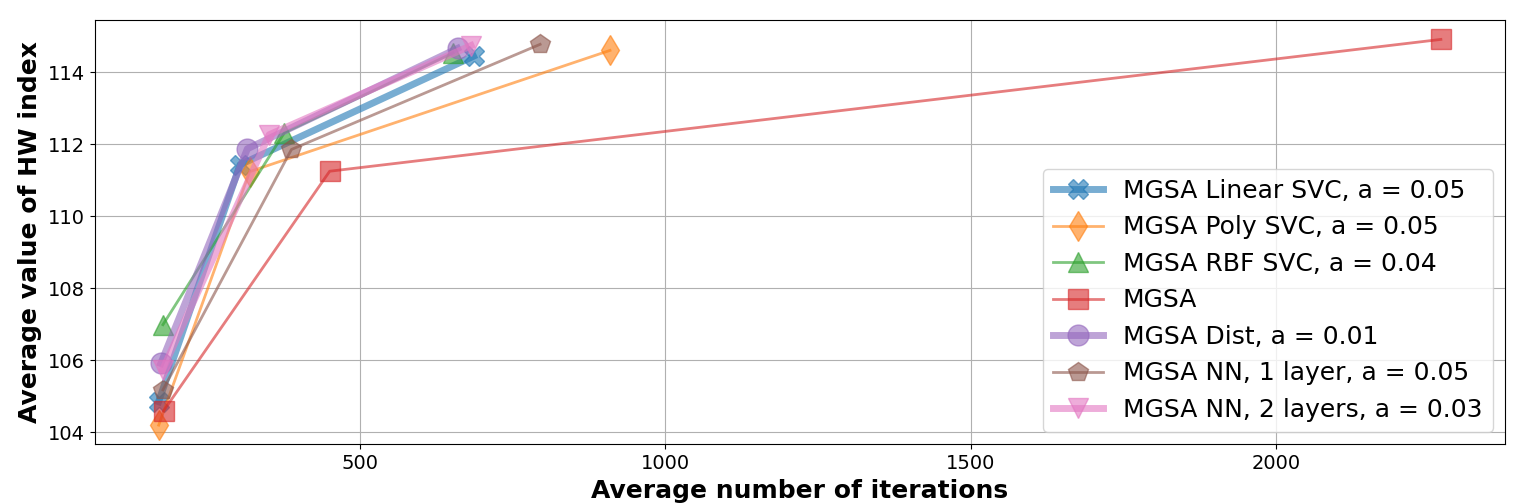
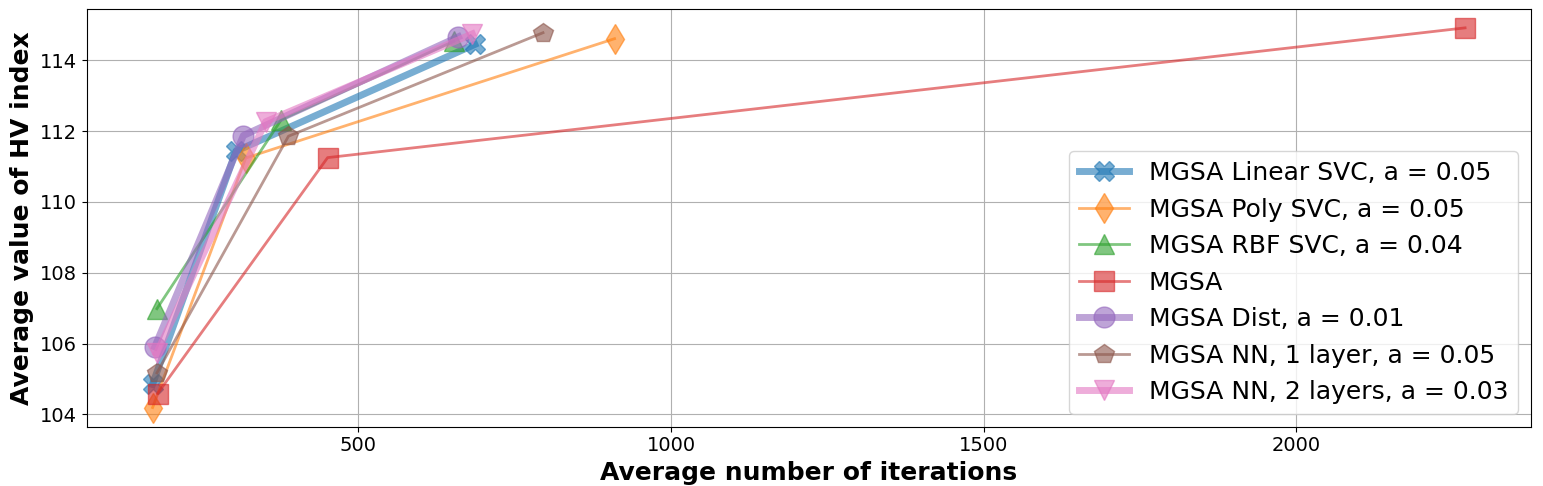
fix MCO HW->HV

Changed region(s): [[0.0, 0.0309, 1.0, 1.0], [0.432, 0.679, 0.4629, 0.7407], [0.216, 0.679, 0.2469, 0.7407]]

diff --git a/2025/RSCD_MCO/RSD-2025.tex b/2025/RSCD_MCO/RSD-2025.tex
@@ -308,7 +308,7 @@ As in the sequential algorithm, stopping and evaluating the resulting solution i
 
 Computational experiments were carried out on the nodes of the Lobachevsky supercomputer of Nizhny Novgorod State University with two processors Intel Xeon Silver 4310T 2.3 GHz, 64 GB RAM. Machine learning libraries SciKit-Learn 0.24.2 \cite{scikit-learn} and PyTorch 2.5.1 \cite{PyTorch} were used in experiments. The algorithm proposed in the work was implemented in Python using the framework iOpt \cite{ioptmco}.
 
-As a criterion for the quality of the found Pareto set, the indicator HW \cite{Evtushenko2014,pymoo,AGP_ML} was applied. Higher value of the indicator corresponds to better solution. To assess the performance of the algorithm, the number of trials carried out when solving the problem are given. However, when solving complex optimization problems, one trial can take a significant time. In such conditions, the reduction of the number of trials reduces the total computation time in general. In the presented experimental results, the number of trials spent on solving each problem and the HW indicators were averaged according to the number of solved problems.
+As a criterion for the quality of the found Pareto set, the indicator HV \cite{Evtushenko2014,pymoo,AGP_ML} was applied. Higher value of the indicator corresponds to better solution. To assess the performance of the algorithm, the number of trials carried out when solving the problem are given. However, when solving complex optimization problems, one trial can take a significant time. In such conditions, the reduction of the number of trials reduces the total computation time in general. In the presented experimental results, the number of trials spent on solving each problem and the HV indicators were averaged according to the number of solved problems.
 
 To estimate the quality of the resulting solutions, a number of computational experiments were performed to solve 100 unconstrained two-criteria two-dimensional MCO problems. The following multi-extremal functions \cite{Gergel2019_2}:
 \begin{equation}
@@ -331,17 +331,17 @@ Results of the experiments for the following algorithms are presented (see subse
 	\item MGSA NN -- the algorithm modification with computation $R_{PS}(i)$ from (\ref{eq:15}) on the base of probabilities obtained using neural networks.
 \end{enumerate}
 	
-Fig. \ref{fig5} shows the dependence of the average value of the HW index on the average number of trials for the sequential algorithm. Several solution accuracy values $\varepsilon = \{0.1,0.05,0.01\}$ were fixed for plotting the graph for algorithm (\ref{eq:13}). 100 problems were solved for each accuracy value and the average results were plotted on a graph. The position of the resulting curve for the chosen algorithm to the left and above corresponds to the best behavior of the algorithm as a whole. During the experiments the parameter $\alpha$ from (15) varied, Fig. \ref{fig5} shows only the best results for each of the variants.
+Fig. \ref{fig5} shows the dependence of the average value of the HV index on the average number of trials for the sequential algorithm. Several solution accuracy values $\varepsilon = \{0.1,0.05,0.01\}$ were fixed for plotting the graph for algorithm (\ref{eq:13}). 100 problems were solved for each accuracy value and the average results were plotted on a graph. The position of the resulting curve for the chosen algorithm to the left and above corresponds to the best behavior of the algorithm as a whole. During the experiments the parameter $\alpha$ from (15) varied, Fig. \ref{fig5} shows only the best results for each of the variants.
 
 
 
 \begin{figure}
 \center
 \includegraphics[width=0.8\textwidth]{fig5.png}
-\caption{Comparison of HW index values for sequential algorithm implementation.} \label{fig5}
+\caption{Comparison of HV index values for sequential algorithm implementation.} \label{fig5}
 \end{figure}
 
-Based on the results of experiments with sequential implementation, all approaches using machine learning models exceed the MGSA algorithm by more than two times. Modifications of the algorithm can be distinguished that demonstrate the best results both in terms of the average number of iterations and in terms of the average HW. These include approaches using SVC (Linear, Rbf cores), a distance calculation approach, and neural networks with two hidden layers. Modification with one hidden layer shows slightly worse results. Modification  MGSA Poly SVC with polynomial core showed least improvement over MGSA. It is also worth noting that the modification of the MGSA Rbf SVC algorithm in the case of low accuracy demonstrates the best quality.
+Based on the results of experiments with sequential implementation, all approaches using machine learning models exceed the MGSA algorithm by more than two times. Modifications of the algorithm can be distinguished that demonstrate the best results both in terms of the average number of iterations and in terms of the average HV. These include approaches using SVC (Linear, Rbf cores), a distance calculation approach, and neural networks with two hidden layers. Modification with one hidden layer shows slightly worse results. Modification  MGSA Poly SVC with polynomial core showed least improvement over MGSA. It is also worth noting that the modification of the MGSA Rbf SVC algorithm in the case of low accuracy demonstrates the best quality.
 
 Next, consider a parallel version of the algorithm (see subsection \ref{subsec35}). Table \ref{tab:1} shows the results of the average value of the trial number per process by tasks for each of the models in dependence on the number of processes. Accuracy $\varepsilon=0.01$ was used in the experiment. The number of processes used is indicated in the first row of the table. The three best modifications of the algorithm in terms of the average number of trials per process are shown in bold.
 
@@ -366,11 +366,11 @@ MGSA NN 1 layer, $\alpha$ = 0.05             & 795.16          & 446.25         
 }
 \end{table}
 
-According to Table \ref{tab:1}, MGSA Dist, MGSA Linear SVC and MGSA NN algorithms with two hidden layers demonstrate the best results. To analyze the quality of the resulting solution, the values   of the HW index are given in Table \ref{tab:2}. The table also shows three best modifications.
+According to Table \ref{tab:1}, MGSA Dist, MGSA Linear SVC and MGSA NN algorithms with two hidden layers demonstrate the best results. To analyze the quality of the resulting solution, the values   of the HV index are given in Table \ref{tab:2}. The table also shows three best modifications.
 
 \begin{table}[ht]
 \centering
-\caption{Average HW Index in dependence on number of processes}
+\caption{Average HV Index in dependence on number of processes}
 \label{tab:2}
 \resizebox{0.8\textwidth}{!}{%
 \begin{tabular}{ccccccc}
@@ -392,18 +392,20 @@ From Table \ref{tab:2} as a whole, it can be concluded that parallel modificatio
 \begin{figure}
 \center
 \includegraphics[width=0.8\textwidth]{fig6.png}
-\caption{Dependence of the mean value of the index HW from the trial number per process for the case of 20 processes.} \label{fig6}
+\caption{Dependence of the mean value of the index HV from the trial number per process for the case of 20 processes.} \label{fig6}
 \end{figure}
 
-Fig. \ref{fig6} demonstrates that as the number of processes used increases, all algorithms are significantly ahead of the MGSA method, which does not use machine learning models, in both the average number of trials per process and the HW indicator, especially if high solution accuracy is to be ensured. All modifications of the algorithm except MGSA Poly SVC and MGSA NN with one layer show similar quality. A simpler modification MGSA NN with one hidden layer with a small number of trials lags behind in quality and aligns with the rest when increasing the number of trials. This may indicate that this model can be useful when high-precision calculations are needed, in other cases it is recommended to use other machine learning models. At the same time, a simple model can learn much faster.
+Fig. \ref{fig6} demonstrates that as the number of processes used increases, all algorithms are significantly ahead of the MGSA method, which does not use machine learning models, in both the average number of trials per process and the HV indicator, especially if high solution accuracy is to be ensured. All modifications of the algorithm except MGSA Poly SVC and MGSA NN with one layer show similar quality. A simpler modification MGSA NN with one hidden layer with a small number of trials lags behind in quality and aligns with the rest when increasing the number of trials. This may indicate that this model can be useful when high-precision calculations are needed, in other cases it is recommended to use other machine learning models. At the same time, a simple model can learn much faster.
 
-Fig. \ref{fig7} shows the value of the HW index depending on the number of trials when the number of used processes changes. Since MGSA NN 2 layers demonstrates better results than MGSA NN 1 layer, the information about the last modification are not given. According to Fig. \ref{fig7}, all presented models show a significant increase in the HW index and a decrease in the trial number per process when increasing the number of processes. Approach without using machine learning methods demonstrate similar dynamics when the target accuracy is high, however, at lower values, changes in the number of counted criteria on one process become less noticeable. It is also worth noting that, unlike the basic MGSA algorithm, all modifications with machine learning elements do not lose quality when switching to a parallel implementation.
+Fig. \ref{fig7} shows the value of the HV index depending on the number of trials when the number of used processes changes. Since MGSA NN 2 layers demonstrates better results than MGSA NN 1 layer, the information about the last modification are not given. 
+
+According to Fig. \ref{fig7}, all presented models show a significant increase in the HV index and a decrease in the trial number per process when increasing the number of processes. Approach without using machine learning methods demonstrate similar dynamics when the target accuracy is high, however, at lower values, changes in the number of counted criteria on one process become less noticeable. It is also worth noting that, unlike the basic MGSA algorithm, all modifications with machine learning elements do not lose quality when switching to a parallel implementation.
 
 
 \begin{figure}
 \center
 \includegraphics[width=0.8\textwidth]{fig7.png}
-\caption{Dependence of the HW index on the number of trials executed for different number of processes.} \label{fig7}
+\caption{Dependence of the HV index on the number of trials executed for different number of processes.} \label{fig7}
 \end{figure}
 
 
